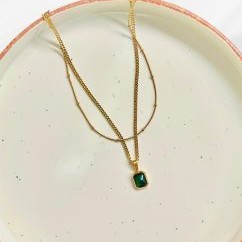
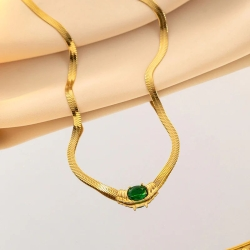
Product Listing

diff --git a/assets/js/products.js b/assets/js/products.js
@@ -25,7 +25,7 @@ const products = [
         id: 3,
         name: "Heart Themed Layered Necklace",
         image: "assets/img/Product list/necklace1.jpg",
-        price: 280.00,
+        price: 299.00,
         isTrending: 'y',
         isBestSelling: 'y',
         type: 'Modern',
@@ -36,7 +36,7 @@ const products = [
         id: 4,
         name: "Black Geometric Pendant Necklace",
         image: "assets/img/Product list/necklace2.jpg",
-        price: 235.00,
+        price: 255.00,
         isTrending: 'y',
         isBestSelling: 'y',
         type: 'Modern',
@@ -47,7 +47,7 @@ const products = [
         id: 5,
         name: "White Emerald Layered Necklace",
         image: "assets/img/Product list/necklace3.jpg",
-        price: 290.00,
+        price: 320.00,
         isTrending: 'y',
         isBestSelling: 'y',
         type: 'Modern',
@@ -56,9 +56,9 @@ const products = [
     },
     {
         id: 6,
-        name: "Dreamy White Stone Pendant ",
+        name: "Pearl Studded Contemporary Pendant",
         image: "assets/img/Product list/necklace4.jpg",
-        price: 290.00,
+        price: 269.00,
         isTrending: 'y',
         isBestSelling: 'y',
         type: 'Modern',
@@ -67,9 +67,9 @@ const products = [
     },
     {
         id: 7,
-        name: "Green Emerald Layered Necklace",
+        name: "Stone Studded Snake Chain Pendant",
         image: "assets/img/Product list/necklace5.jpg",
-        price: 299.00,
+        price: 320.00,
         isTrending: 'y',
         isBestSelling: 'y',
         type: 'Modern',
@@ -80,7 +80,7 @@ const products = [
         id: 8,
         name: "Vivid Pink Charm Necklace",
         image: "assets/img/Product list/necklace6.jpg",
-        price: 299.00,
+        price: 199.00,
         isTrending: 'y',
         isBestSelling: 'y',
         type: 'Modern',
@@ -91,12 +91,277 @@ const products = [
         id: 9,
         name: "Studded Hexagonal Pendant Necklace",
         image: "assets/img/Product list/necklace7.jpg",
-        price: 299.00,
+        price: 155.00,
         isTrending: 'y',
         isBestSelling: 'y',
         type: 'Modern',
         category: 'Anecklace',
         isAntiTarnish: 'y'
+    },
+    {
+        id: 10,
+        name: "Korean Crystal Noir Earrings",
+        image: "assets/img/Product list/earring1.jpg",
+        price: 105.00,
+        isTrending: 'y',
+        isBestSelling: 'y',
+        type: 'Modern',
+        category: 'Aearrings',
+        isAntiTarnish: 'y'
+    },
+    {
+        id: 11,
+        name: "Korean Butterfly Pearl Earrings",
+        image: "assets/img/Product list/earring2.jpg",
+        price: 105.00,
+        isTrending: 'y',
+        isBestSelling: 'y',
+        type: 'Modern',
+        category: 'Aearrings',
+        isAntiTarnish: 'y'
+    },
+    {
+        id: 12,
+        name:"Korean Pearl Infinite Drop Earrings",
+        image: "assets/img/Product list/earring3.jpg",
+        price: 105.00,
+        isTrending: 'y',
+        isBestSelling: 'y',
+        type: 'Modern',
+        category: 'Aearrings',
+        isAntiTarnish: 'y'
+    },
+    {
+        id: 13,
+        name:"Korean Minimal Floral Earrings",
+        image: "assets/img/Product list/earring4.jpg",
+        price: 105.00,
+        isTrending: 'y',
+        isBestSelling: 'y',
+        type: 'Modern',
+        category: 'Aearrings',
+        isAntiTarnish: 'y'
+    },
+    {
+        id: 14,
+        name: "Korean Romance Pearl Earring",
+        image: "assets/img/Product list/earring5.jpg",
+        price: 105.00,
+        isTrending: 'y',
+        isBestSelling: 'y',
+        type: 'Modern',
+        category: 'Aearrings',
+        isAntiTarnish: 'y'
+    },
+    {
+        id: 15,
+        name: "Korean Aesthetic Pearl Drop Earring",
+        image: "assets/img/Product list/earring6.jpg",
+        price: 105.00,
+        isTrending: 'y',
+        isBestSelling: 'y',
+        type: 'Modern',
+        category: 'Aearrings',
+        isAntiTarnish: 'y'
+    },
+    {
+        id: 16,
+        name: "Flat Snake Chain Necklace",
+        image: "assets/img/Product list/necklace8.jpg",
+        price: 155.00,
+        isTrending: 'y',
+        isBestSelling: 'y',
+        type: 'Modern',
+        category: 'Anecklace',
+        isAntiTarnish: 'y'
+    },
+    {
+        id: 17,
+        name:"Round Cut Cubic Zirconia White Matrix American Diamond Anti Tarnish Bracelet",
+        image: "assets/img/Product list/bracelet1.jpg",
+        price: 300.00,
+        isTrending: 'y',
+        isBestSelling: 'y',
+        type: 'Modern',
+        category: 'Abracelets',
+        isAntiTarnish: 'y'
+    },
+    {
+        id: 18,
+        name: "Anti Tarnish Aurora Gold Tennis Bracelet",
+        image: "assets/img/Product list/bracelet2.jpg",
+        price: 300.00,
+        isTrending: 'y',
+        isBestSelling: 'y',
+        type: 'Modern',
+        category: 'Abracelets',
+        isAntiTarnish: 'y'
+    },
+    {
+        id: 19,
+        name: "Anti Tarnish Celeste Silver Tennis Bracelet",
+        image: "assets/img/Product list/bracelet3.jpg",
+        price: 300.00,
+        isTrending: 'y',
+        isBestSelling: 'y',
+        type: 'Modern',
+        category: 'Abracelets',
+        isAntiTarnish: 'y'
+    },
+    {
+        id: 20,
+        name: "Snow White Anti Tarnish Clover Bracelet For Girls And Women",
+        image: "assets/img/Product list/bracelet4.jpg",
+        price: 285.00,
+        isTrending: 'y',
+        isBestSelling: 'y',
+        type: 'Modern',
+        category: 'Abracelets',
+        isAntiTarnish: 'y'
+    },
+    {
+        id: 21,
+        name:"Fire Wine Red Anti Tarnish Clover Bracelet For Girls And Women                   ",
+        image: "assets/img/Product list/bracelet5.jpg",
+        price: 285.00,
+        isTrending: 'y',
+        isBestSelling: 'y',
+        type: 'Modern',
+        category: 'Abracelets',
+        isAntiTarnish: 'y'
+    },
+    { 
+        id: 22,
+        name:"Midnight Black Anti Tarnish Clover Bracelet For Girls And Women",
+        image: "assets/img/Product list/bracelet6.jpg",
+        price: 285.00,
+        isTrending: 'y',
+        isBestSelling: 'y',
+        type: 'Modern',
+        category: 'Abracelets',
+        isAntiTarnish: 'y'
+    },
+    { 
+        id: 23,
+        name: "Korean Star Clover Twist Earrings",
+        image: "assets/img/Product list/earring7.jpg",
+        price: 105.00,
+        isTrending: 'y',
+        isBestSelling: 'y',
+        type: 'Modern',
+        category: 'Aearrings',
+        isAntiTarnish: 'y'
+    },
+    { 
+        id: 24,
+        name: "Korean Heart Resin Luxe Earrings",
+        image: "assets/img/Product list/earring8.jpg",
+        price: 105.00,
+        isTrending: 'y',
+        isBestSelling: 'y',
+        type: 'Modern',
+        category: 'Aearrings',
+        isAntiTarnish: 'y'
+    },
+    { 
+        id: 25,
+        name: "Korean Pearl Harmony Studs",
+        image: "assets/img/Product list/earring9.jpg",
+        price: 105.00,
+        isTrending: 'y',
+        isBestSelling: 'y',
+        type: 'Modern',
+        category: 'Aearrings',
+        isAntiTarnish: 'y'
+    },
+    { 
+        id: 26,
+        name: "Korean Pearl Rose White Earrings",
+        image: "assets/img/Product list/earring10.jpg",
+        price: 105.00,
+        isTrending: 'y',
+        isBestSelling: 'y',
+        type: 'Modern',
+        category: 'Aearrings',
+        isAntiTarnish: 'y'
+    },
+    { 
+        id: 27,
+        name: "Korean Lotus Petal Luxe Earrings",
+        image: "assets/img/Product list/earring11.jpg",
+        price: 105.00,
+        isTrending: 'y',
+        isBestSelling: 'y',
+        type: 'Modern',
+        category: 'Aearrings',
+        isAntiTarnish: 'y'
+    },
+    { 
+        id: 28,
+        name:" Korean X-Design Lustrous White Pearl Earrings",
+        image: "assets/img/Product list/earring12.jpg",
+        price: 105.00,
+        isTrending: 'y',
+        isBestSelling: 'y',
+        type: 'Modern',
+        category: 'Aearrings',
+        isAntiTarnish: 'y'
+    },
+    { 
+        id: 29,
+        name:"Korean Mermaid Pearl Luxe Earrings",
+        image: "assets/img/Product list/earring13.jpg",
+        price: 105.00,
+        isTrending: 'y',
+        isBestSelling: 'y',
+        type: 'Modern',
+        category: 'Aearrings',
+        isAntiTarnish: 'y'
+    },
+    { 
+        id: 30,
+        name: "Korean Swan Luxury Gold Earrings",
+        image: "assets/img/Product list/earring15.jpg",
+        price: 105.00,
+        isTrending: 'y',
+        isBestSelling: 'y',
+        type: 'Modern',
+        category: 'Aearrings',
+        isAntiTarnish: 'y'
+    },
+    { 
+        id: 32,
+        name: "Korean Bow Charm Pearl Hoops",
+        image: "assets/img/Product list/earring16.jpg",
+        price: 105.00,
+        isTrending: 'y',
+        isBestSelling: 'y',
+        type: 'Modern',
+        category: 'Aearrings',
+        isAntiTarnish: 'y'
+    },
+    { 
+        id: 33,
+        name: "Korean Golden Luxe Bow Earrings",
+        image: "assets/img/Product list/earring17.jpg",
+        price: 105.00,
+        isTrending: 'y',
+        isBestSelling: 'y',
+        type: 'Modern',
+        category: 'Aearrings',
+        isAntiTarnish: 'y'
+    },
+    { 
+        id: 34,
+        name: "Korean V-Pearl Luxe Earrings",
+        image: "assets/img/Product list/earring18.jpg",
+        price: 105.00,
+        isTrending: 'y',
+        isBestSelling: 'y',
+        type: 'Modern',
+        category: 'Aearrings',
+        isAntiTarnish: 'y'
     }
-
 ];
+
+

diff --git a/aearrings.html b/aearrings.html
@@ -431,8 +431,8 @@ function loadAearringsProducts() {
         productDiv.setAttribute('data-wow-delay', '0.2s');
         productDiv.innerHTML = `
             <div class="product-style2 version2">
-                ${product.isTrending === 'y' ? '<span class="product-badge">new</span>' : ''}
-                <div class="product-action">
+                ${product.isTrending === 'y' ? '<span class="product-badge"></span>' : ''}
+                <div class="product-action"
                     <button class="product-action__btn"><i class="fal fa-heart"></i></button>
                     <button class="product-action__btn"><i class="fal fa-eye"></i></button>
                 </div>
@@ -487,7 +487,7 @@ function sortAndDisplayProducts() {
         productDiv.setAttribute('data-wow-delay', '0.2s');
         productDiv.innerHTML = `
             <div class="product-style2 version2">
-                ${product.isTrending === 'y' ? '<span class="product-badge">new</span>' : ''}
+                ${product.isTrending === 'y' ? '<span class="product-badge"></span>' : ''}
                 <div class="product-action">
                     <button class="product-action__btn"><i class="fal fa-heart"></i></button>
                     <button class="product-action__btn"><i class="fal fa-eye"></i></button>

diff --git a/abracelets.html b/abracelets.html
@@ -431,7 +431,7 @@ function loadAbraceletsProducts() {
         productDiv.setAttribute('data-wow-delay', '0.2s');
         productDiv.innerHTML = `
             <div class="product-style2 version2">
-                ${product.isTrending === 'y' ? '<span class="product-badge">new</span>' : ''}
+                ${product.isTrending === 'y' ? '<span class="product-badge"></span>' : ''}
                 <div class="product-action">
                     <button class="product-action__btn"><i class="fal fa-heart"></i></button>
                     <button class="product-action__btn"><i class="fal fa-eye"></i></button>
@@ -487,7 +487,7 @@ function sortAndDisplayProducts() {
         productDiv.setAttribute('data-wow-delay', '0.2s');
         productDiv.innerHTML = `
             <div class="product-style2 version2">
-                ${product.isTrending === 'y' ? '<span class="product-badge">new</span>' : ''}
+                ${product.isTrending === 'y' ? '<span class="product-badge"></span>' : ''}
                 <div class="product-action">
                     <button class="product-action__btn"><i class="fal fa-heart"></i></button>
                     <button class="product-action__btn"><i class="fal fa-eye"></i></button>
